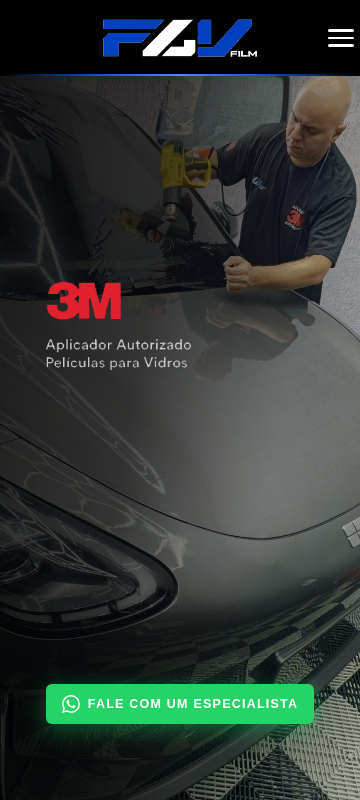
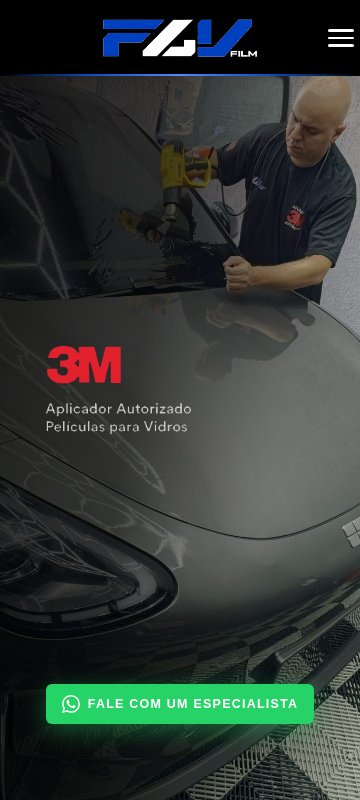
Add files via upload

Changed region(s): [[0.1222, 0.3438, 0.5194, 0.5625]]

diff --git a/index.html b/index.html
@@ -109,22 +109,22 @@
 
           <div class="slide active">
             <img
-              src="https://images.unsplash.com/photo-1607860108855-64acf2078ed9?w=1200&q=90&auto=format&fit=crop&fm=webp"
-              alt="Técnico aplicando insulfilm no vidro do carro"
+              src="real-fachada-jeep-preto.jpg"
+              alt="Fachada da loja FLV Film com Jeep Compass preto"
               loading="lazy"
             />
           </div>
           <div class="slide">
             <img
-              src="https://images.unsplash.com/photo-1625047509248-ec889cbff17f?w=1200&q=90&auto=format&fit=crop&fm=webp"
-              alt="Aplicação de PPF proteção de pintura"
+              src="real-fachada-geely.jpg"
+              alt="Fachada da loja FLV Film com veículo Geely"
               loading="lazy"
             />
           </div>
           <div class="slide">
             <img
-              src="https://images.unsplash.com/photo-1619642751034-765dfdf7c58e?w=1200&q=90&auto=format&fit=crop&fm=webp"
-              alt="Detalhamento e proteção automotiva"
+              src="real-fachada-jeep-bandeira.jpg"
+              alt="Fachada da loja FLV Film com Jeep Compass e bandeira Insulfilm Antivandalismo"
               loading="lazy"
             />
           </div>
@@ -149,10 +149,11 @@
           E EXCELÊNCIA EM CADA<br/>
           PELÍCULA APLICADA
         </h2>
-        <p>A <strong>FLV Film</strong> nasceu de uma trajetória construída em uma garagem residencial e consolidada através de capacitação técnica e dedicação. Atendemos desde quem busca o melhor custo-benefício para o carro usado até empresários, advogados e donos de carros novos, elétricos e híbridos — sempre com a mesma qualidade e cuidado, seja qual for o seu veículo.</p>
-        <p>Mais do que instalar películas, entregamos <strong>proteção, privacidade, conforto térmico e valorização patrimonial</strong>, unindo tecnologia, qualidade e confiança em cada projeto.</p>
-        <p>Com equipe qualificada e materiais de marcas renomadas, garantimos <strong>instalação precisa, durabilidade e atendimento personalizado</strong> em cada aplicação.</p>
-        <p><strong>Escolha a FLV Film e leve a proteção do seu veículo a um novo patamar!</strong></p>
+        <p><strong>Na FLV Film</strong>, acreditamos que uma película automotiva vai muito além da estética.</p>
+        <p>Somos especializados em <strong>películas automotivas de alta performance</strong>, oferecendo soluções para quem busca mais conforto, proteção, privacidade e tecnologia para o seu veículo.</p>
+        <p>Trabalhamos com produtos de marcas reconhecidas e diferentes tecnologias de películas, sempre buscando oferecer a solução mais adequada para cada necessidade. Nossa aplicação é realizada com <strong>técnica, precisão e atenção aos detalhes</strong>, porque sabemos que o acabamento faz toda a diferença.</p>
+        <p>Nosso compromisso é proporcionar uma experiência segura e profissional, desde a escolha da película até a entrega do veículo.</p>
+        <p><strong>FLV Film. Tecnologia, proteção e excelência em cada aplicação.</strong></p>
         <a href="https://wa.me/5511942501978?text=Olá,%20quero%20saber%20mais%20sobre%20vocês"
            target="_blank" class="btn-green">
           <svg viewBox="0 0 24 24" fill="currentColor" width="18" height="18"><path d="M17.472 14.382c-.297-.149-1.758-.867-2.03-.967-.273-.099-.471-.148-.67.15-.197.297-.767.966-.94 1.164-.173.199-.347.223-.644.075-.297-.15-1.255-.463-2.39-1.475-.883-.788-1.48-1.761-1.653-2.059-.173-.297-.018-.458.13-.606.134-.133.298-.347.446-.52.149-.174.198-.298.298-.497.099-.198.05-.371-.025-.52-.075-.149-.669-1.612-.916-2.207-.242-.579-.487-.5-.669-.51-.173-.008-.371-.01-.57-.01-.198 0-.52.074-.792.372-.272.297-1.04 1.016-1.04 2.479 0 1.462 1.065 2.875 1.213 3.074.149.198 2.096 3.2 5.077 4.487.709.306 1.262.489 1.694.625.712.227 1.36.195 1.871.118.571-.085 1.758-.719 2.006-1.413.248-.694.248-1.289.173-1.413-.074-.124-.272-.198-.57-.347m-5.421 7.403h-.004a9.87 9.87 0 01-5.031-1.378l-.361-.214-3.741.982.998-3.648-.235-.374a9.86 9.86 0 01-1.51-5.26c.001-5.45 4.436-9.884 9.888-9.884 2.64 0 5.122 1.03 6.988 2.898a9.825 9.825 0 012.893 6.994c-.003 5.45-4.437 9.884-9.885 9.884m8.413-18.297A11.815 11.815 0 0012.05 0C5.495 0 .16 5.335.157 11.892c0 2.096.547 4.142 1.588 5.945L.057 24l6.305-1.654a11.882 11.882 0 005.683 1.448h.005c6.554 0 11.89-5.335 11.893-11.893a11.821 11.821 0 00-3.48-8.413z"/></svg>
@@ -393,69 +394,6 @@
         </a>
       </div>
 
-      <div class="marcas-grid">
-        <div class="marca-icon-item" title="Volkswagen">
-          <svg viewBox="0 0 50 50" width="46" height="46" fill="none"><circle cx="25" cy="25" r="23" stroke="rgba(255,255,255,.4)" stroke-width="2"/><text x="25" y="31" font-family="Arial" font-weight="700" font-size="16" fill="rgba(255,255,255,.85)" text-anchor="middle">VW</text></svg>
-        </div>
-        <div class="marca-icon-item" title="Audi">
-          <svg viewBox="0 0 88 28" width="60" height="20" fill="none"><circle cx="11" cy="14" r="10" stroke="rgba(255,255,255,.7)" stroke-width="2.2"/><circle cx="29" cy="14" r="10" stroke="rgba(255,255,255,.7)" stroke-width="2.2"/><circle cx="47" cy="14" r="10" stroke="rgba(255,255,255,.7)" stroke-width="2.2"/><circle cx="65" cy="14" r="10" stroke="rgba(255,255,255,.7)" stroke-width="2.2"/></svg>
-        </div>
-        <div class="marca-icon-item" title="BMW">
-          <svg viewBox="0 0 50 50" width="42" height="42" fill="none"><circle cx="25" cy="25" r="23" fill="white" stroke="#333" stroke-width="2"/><path d="M25 2 A23 23 0 0 1 48 25 L25 25 Z" fill="#1565C0"/><path d="M25 48 A23 23 0 0 1 2 25 L25 25 Z" fill="#1565C0"/><circle cx="25" cy="25" r="8" fill="white" stroke="#333" stroke-width="1.5"/></svg>
-        </div>
-        <div class="marca-icon-item" title="Mercedes-Benz">
-          <svg viewBox="0 0 50 50" width="42" height="42" fill="none"><circle cx="25" cy="25" r="23" stroke="rgba(255,255,255,.5)" stroke-width="2"/><line x1="25" y1="25" x2="25" y2="4" stroke="rgba(255,255,255,.85)" stroke-width="2.5"/><line x1="25" y1="25" x2="7" y2="36" stroke="rgba(255,255,255,.85)" stroke-width="2.5"/><line x1="25" y1="25" x2="43" y2="36" stroke="rgba(255,255,255,.85)" stroke-width="2.5"/></svg>
-        </div>
-        <div class="marca-icon-item" title="Fiat">
-          <svg viewBox="0 0 90 40" width="66" height="30" fill="none"><ellipse cx="45" cy="20" rx="42" ry="17" stroke="rgba(255,255,255,.5)" stroke-width="2"/><text x="45" y="26" font-family="Arial" font-weight="800" font-size="16" letter-spacing="1" fill="rgba(255,255,255,.85)" text-anchor="middle">FIAT</text></svg>
-        </div>
-        <div class="marca-icon-item" title="Dodge">
-          <svg viewBox="0 0 100 34" width="74" height="26" fill="none"><rect x="1" y="1" width="98" height="32" rx="4" stroke="rgba(255,255,255,.4)" stroke-width="2"/><text x="50" y="23" font-family="Arial" font-weight="800" font-style="italic" font-size="14" letter-spacing="2" fill="rgba(255,255,255,.85)" text-anchor="middle">DODGE</text></svg>
-        </div>
-        <div class="marca-icon-item" title="Jeep">
-          <svg viewBox="0 0 60 40" width="50" height="34" fill="none"><rect x="2" y="2" width="56" height="36" rx="6" stroke="rgba(255,255,255,.45)" stroke-width="2"/><line x1="10" y1="8" x2="10" y2="32" stroke="rgba(255,255,255,.8)" stroke-width="2.4"/><line x1="18" y1="8" x2="18" y2="32" stroke="rgba(255,255,255,.8)" stroke-width="2.4"/><line x1="26" y1="8" x2="26" y2="32" stroke="rgba(255,255,255,.8)" stroke-width="2.4"/><line x1="34" y1="8" x2="34" y2="32" stroke="rgba(255,255,255,.8)" stroke-width="2.4"/><line x1="42" y1="8" x2="42" y2="32" stroke="rgba(255,255,255,.8)" stroke-width="2.4"/><line x1="50" y1="8" x2="50" y2="32" stroke="rgba(255,255,255,.8)" stroke-width="2.4"/></svg>
-        </div>
-        <div class="marca-icon-item" title="Alfa Romeo">
-          <svg viewBox="0 0 50 50" width="42" height="42" fill="none"><circle cx="25" cy="25" r="23" stroke="rgba(255,255,255,.45)" stroke-width="2"/><line x1="25" y1="6" x2="25" y2="44" stroke="rgba(255,255,255,.8)" stroke-width="2.4"/><line x1="6" y1="25" x2="44" y2="25" stroke="rgba(255,255,255,.8)" stroke-width="2.4"/></svg>
-        </div>
-        <div class="marca-icon-item" title="Ford">
-          <svg viewBox="0 0 90 44" width="66" height="32" fill="none"><ellipse cx="45" cy="22" rx="42" ry="19" stroke="rgba(255,255,255,.5)" stroke-width="2"/><text x="45" y="29" font-family="Georgia, serif" font-weight="700" font-style="italic" font-size="17" fill="rgba(255,255,255,.85)" text-anchor="middle">Ford</text></svg>
-        </div>
-        <div class="marca-icon-item" title="Chevrolet">
-          <svg viewBox="0 0 60 34" width="52" height="30" fill="rgba(255,255,255,.8)"><path d="M2 6 L26 15 L2 24 Z"/><path d="M58 6 L34 15 L58 24 Z"/><rect x="26" y="12" width="8" height="6"/></svg>
-        </div>
-        <div class="marca-icon-item" title="Renault">
-          <svg viewBox="0 0 50 50" width="38" height="38" fill="none"><path d="M25 4 L46 25 L25 46 L4 25 Z" stroke="rgba(255,255,255,.75)" stroke-width="2.5"/></svg>
-        </div>
-        <div class="marca-icon-item" title="Peugeot">
-          <svg viewBox="0 0 50 58" width="34" height="40" fill="none"><path d="M25 2 L46 10 V30 C46 44 37 53 25 56 C13 53 4 44 4 30 V10 Z" stroke="rgba(255,255,255,.6)" stroke-width="2.2"/></svg>
-        </div>
-        <div class="marca-icon-item" title="Citroën">
-          <svg viewBox="0 0 60 40" width="50" height="34" fill="none"><path d="M6 20 L30 4 L54 20" stroke="rgba(255,255,255,.8)" stroke-width="4" fill="none" stroke-linecap="round" stroke-linejoin="round"/><path d="M6 34 L30 18 L54 34" stroke="rgba(255,255,255,.8)" stroke-width="4" fill="none" stroke-linecap="round" stroke-linejoin="round"/></svg>
-        </div>
-        <div class="marca-icon-item" title="Honda">
-          <svg viewBox="0 0 50 50" width="40" height="40" fill="none"><rect x="2" y="2" width="46" height="46" rx="8" stroke="rgba(255,255,255,.4)" stroke-width="2"/><path d="M14 12 V38 M14 25 H36 M36 12 V38" stroke="rgba(255,255,255,.85)" stroke-width="3.4" fill="none" stroke-linecap="round"/></svg>
-        </div>
-        <div class="marca-icon-item" title="Toyota">
-          <svg viewBox="0 0 50 50" width="42" height="42" fill="none"><ellipse cx="25" cy="25" rx="23" ry="15" stroke="rgba(255,255,255,.5)" stroke-width="2"/><ellipse cx="25" cy="25" rx="8" ry="15" stroke="rgba(255,255,255,.75)" stroke-width="2"/><ellipse cx="25" cy="16" rx="15" ry="6" stroke="rgba(255,255,255,.75)" stroke-width="2"/></svg>
-        </div>
-        <div class="marca-icon-item" title="Hyundai">
-          <svg viewBox="0 0 60 40" width="50" height="34" fill="none"><ellipse cx="30" cy="20" rx="28" ry="18" stroke="rgba(255,255,255,.5)" stroke-width="2"/><path d="M18 12 L18 28 M42 12 L42 28 M18 22 Q30 16 42 22" stroke="rgba(255,255,255,.85)" stroke-width="2.6" fill="none" stroke-linecap="round"/></svg>
-        </div>
-        <div class="marca-icon-item" title="Kia">
-          <svg viewBox="0 0 90 34" width="66" height="26" fill="none"><rect x="1" y="1" width="88" height="32" rx="16" stroke="rgba(255,255,255,.4)" stroke-width="2"/><text x="45" y="23" font-family="Arial" font-weight="800" font-style="italic" font-size="16" letter-spacing="2" fill="rgba(255,255,255,.85)" text-anchor="middle">KIA</text></svg>
-        </div>
-        <div class="marca-icon-item" title="Subaru">
-          <svg viewBox="0 0 60 40" width="50" height="34" fill="none"><ellipse cx="30" cy="20" rx="28" ry="18" stroke="rgba(255,255,255,.5)" stroke-width="2"/><circle cx="18" cy="20" r="2" fill="rgba(255,255,255,.85)"/><circle cx="26" cy="14" r="2" fill="rgba(255,255,255,.85)"/><circle cx="34" cy="14" r="2" fill="rgba(255,255,255,.85)"/><circle cx="42" cy="20" r="2" fill="rgba(255,255,255,.85)"/><circle cx="30" cy="26" r="3" fill="rgba(255,255,255,.85)"/></svg>
-        </div>
-        <div class="marca-icon-item" title="BYD">
-          <svg viewBox="0 0 80 34" width="60" height="26" fill="none"><rect x="1" y="1" width="78" height="32" rx="4" stroke="rgba(255,255,255,.4)" stroke-width="2"/><text x="40" y="23" font-family="Arial" font-weight="800" font-size="15" letter-spacing="2" fill="rgba(255,255,255,.85)" text-anchor="middle">BYD</text></svg>
-        </div>
-        <div class="marca-icon-item" title="GWM">
-          <svg viewBox="0 0 80 34" width="60" height="26" fill="none"><rect x="1" y="1" width="78" height="32" rx="4" stroke="rgba(255,255,255,.4)" stroke-width="2"/><text x="40" y="23" font-family="Arial" font-weight="800" font-size="15" letter-spacing="2" fill="rgba(255,255,255,.85)" text-anchor="middle">GWM</text></svg>
-        </div>
-        <span class="marca-chip">e muito mais</span>
-      </div>
     </div>
   </section>
 

diff --git a/style.css b/style.css
@@ -794,8 +794,8 @@ img { display: block; max-width: 100%; }
   .hero-desktop-only { display: none; }
   .hero-mobile-only { display: block; }
   .hero-3m-big { height: 88px; }
-  .hero-selo3m-wrap { margin-top: 22vh; }
-  .btn-hero-wpp { width: 100%; justify-content: center; padding: 11px 16px; font-size: .78rem; gap: 8px; margin-top: 36vh; }
+  .hero-selo3m-wrap { margin-top: 30vh; }
+  .btn-hero-wpp { width: 100%; justify-content: center; padding: 11px 16px; font-size: .78rem; gap: 8px; margin-top: 28vh; }
   .btn-hero-wpp svg { width: 18px; height: 18px; }
 
   .galeria-slider { height: 240px; }
